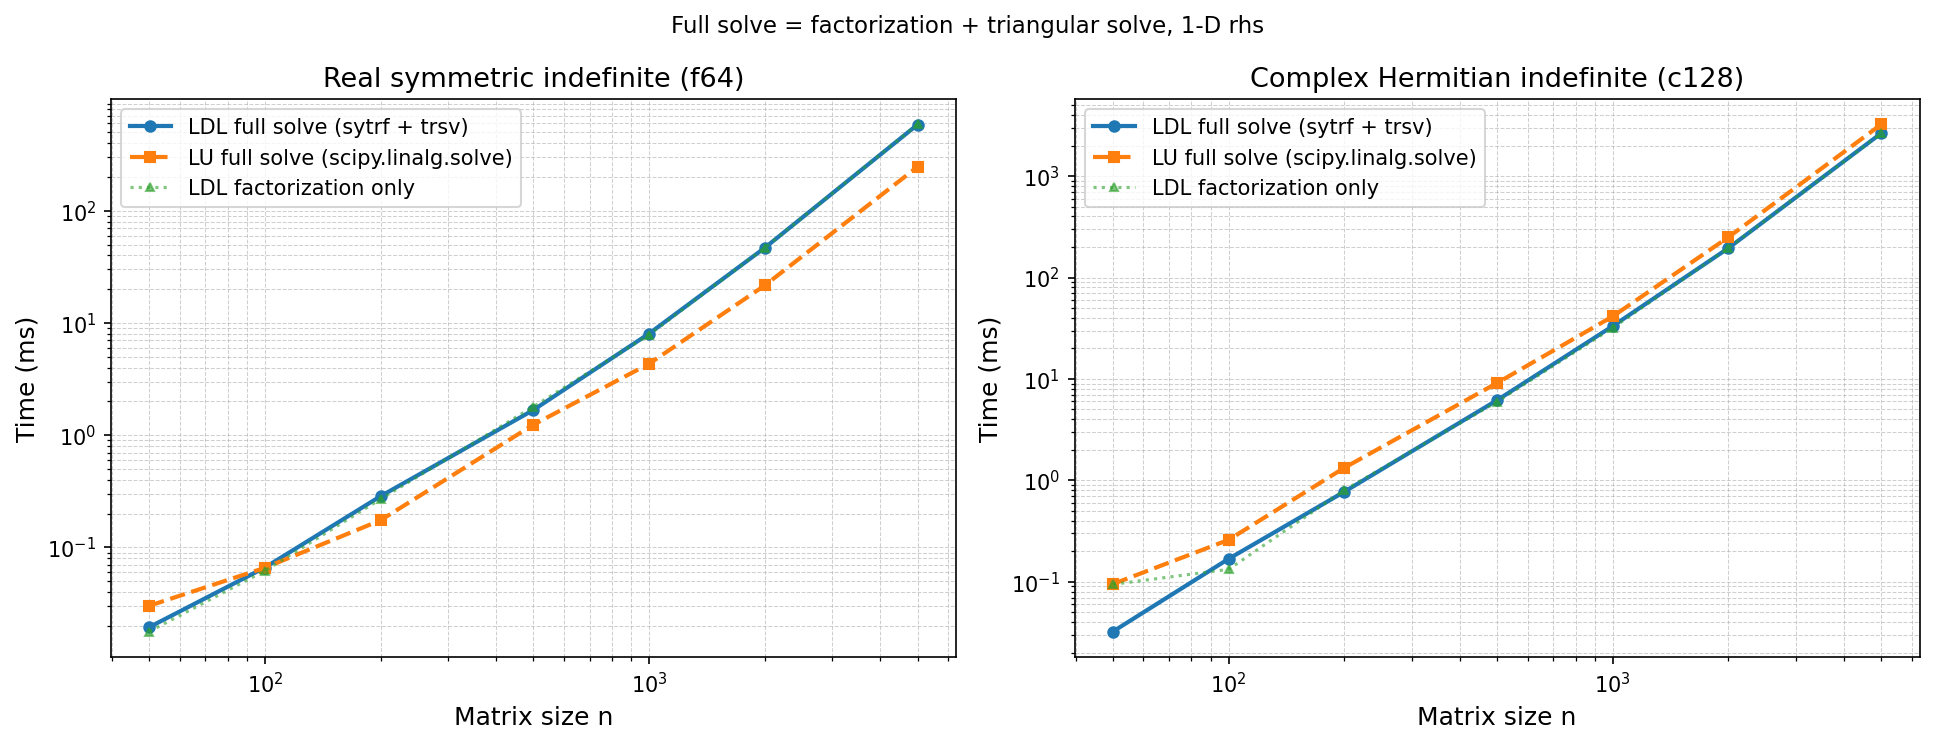
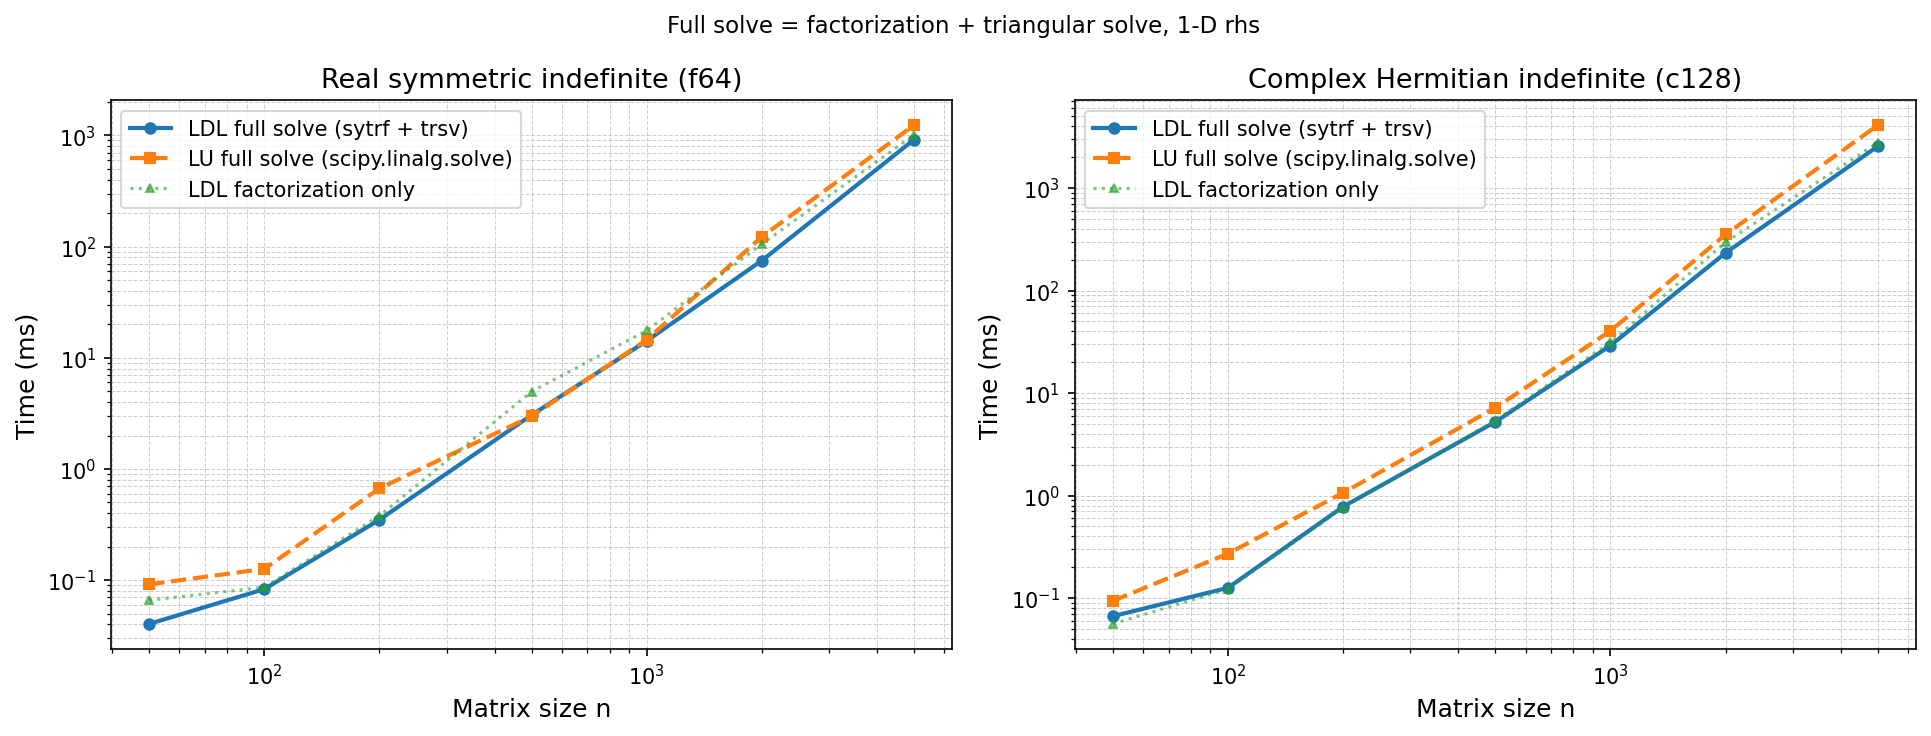
benchmarks: rerun LDL bench on GHA, fix docstring RST errors, add benchmarks_ldl.md
- Fix RST docstring indentation errors in ldl + ldl_solve See Also sections
  (wrapped continuation lines confused docutils; unwrapped to single lines)
- Recreate docs/benchmarks_ldl.md (was removed in f06c001) with platform note
  explaining Mac vs Linux/OpenBLAS performance difference
- Update ldl_solve benchmark docstring with GHA results (1.4–2.2x Hermitian,
  1.35–2.3x real symmetric at small/large sizes, ~equal at n=500–1000)
- Rerun bench_ldl.py on GHA and commit updated CSV + PNG

diff --git a/jaxtra/_src/lax/linalg.py b/jaxtra/_src/lax/linalg.py
@@ -89,11 +89,9 @@ def ldl(
 
   See Also:
     :func:`ldl_solve`: Solve ``A @ x = b`` given the factorization.
-    :func:`jaxtra.scipy.linalg.ldl`: SciPy-compatible interface returning
-      ``(lu, d, perm)`` directly.
+    :func:`jaxtra.scipy.linalg.ldl`: SciPy-compatible interface returning ``(lu, d, perm)`` directly.
     :func:`jax.scipy.linalg.lu_factor`: Analogous LU factorization.
-    :func:`jax.scipy.linalg.cho_factor`: Analogous Cholesky factorization
-      (for positive-definite matrices).
+    :func:`jax.scipy.linalg.cho_factor`: Analogous Cholesky factorization (for positive-definite matrices).
 
   Examples:
     Factorize a symmetric indefinite matrix:
@@ -138,12 +136,9 @@ def ldl_solve(
 
   See Also:
     :func:`ldl`: Compute the LDL factorization.
-    :func:`jaxtra.scipy.linalg.ldl`: SciPy-compatible LDL interface returning
-      ``(lu, d, perm)``.
-    :func:`jax.scipy.linalg.lu_solve`: Analogous solve from an LU
-      factorization.
-    :func:`jax.scipy.linalg.cho_solve`: Analogous solve from a Cholesky
-      factorization.
+    :func:`jaxtra.scipy.linalg.ldl`: SciPy-compatible LDL interface returning ``(lu, d, perm)``.
+    :func:`jax.scipy.linalg.lu_solve`: Analogous solve from an LU factorization.
+    :func:`jax.scipy.linalg.cho_solve`: Analogous solve from a Cholesky factorization.
 
   Examples:
     Solve a symmetric indefinite system ``A @ x = b``:
@@ -163,14 +158,16 @@ def ldl_solve(
   indefinite systems (float64 / complex128, CPU, n = 50 -- 5000) compared
   against :func:`jax.scipy.linalg.solve` (dense LU).
 
-  **Complex Hermitian** — LDL is consistently faster than LU across all
-  tested sizes, exploiting Hermitian structure via LAPACK ``hetrf`` /
-  ``hetrs``.
+  **Complex Hermitian** — LDL is consistently **1.4–2.2×** faster than LU
+  across all tested sizes on Linux (OpenBLAS), exploiting Hermitian structure
+  via LAPACK ``hetrf`` / ``hetrs``.
 
   **Real symmetric** — Performance depends on the underlying LAPACK vendor.
-  On Linux (OpenBLAS / MKL), LDL is **1.2 -- 1.7x** faster; on macOS
-  (Accelerate), ``getrf`` is more optimized than ``sytrf`` so LU may be
-  faster for purely real solves.
+  On Linux (OpenBLAS), LDL is **1.5–2.3×** faster at small sizes (n ≤ 200),
+  roughly equal at n = 500–1000, and **1.35–1.64×** faster at large sizes
+  (n ≥ 2000).  On macOS (Accelerate), ``getrf`` is more aggressively optimised
+  than ``sytrf`` so LU may be faster for purely real symmetric solves at medium
+  sizes — benchmark both paths on your hardware.
 
   .. figure:: /_bench_images/bench_ldl.png
      :alt: LDL vs LU full solve benchmark

diff --git a/jaxtra/scipy/linalg.py b/jaxtra/scipy/linalg.py
@@ -293,13 +293,10 @@ def ldl(
       (for Hermitian) or with ``lu.T`` (for symmetric).
 
   See Also:
-    :func:`jaxtra.scipy.linalg.ldl_solve`: Solve ``A @ x = b`` using the
-      raw LDL factorization (JIT-compatible).
-    :func:`jaxtra._src.lax.linalg.ldl`: Raw primitive returning
-      ``(factors, ipiv)`` directly (JIT-compatible).
+    :func:`jaxtra.scipy.linalg.ldl_solve`: Solve ``A @ x = b`` using the raw LDL factorization (JIT-compatible).
+    :func:`jaxtra._src.lax.linalg.ldl`: Raw primitive returning ``(factors, ipiv)`` directly (JIT-compatible).
     :func:`jax.scipy.linalg.lu_factor`: Analogous LU factorization.
-    :func:`jax.scipy.linalg.cho_factor`: Analogous Cholesky factorization
-      (for positive-definite matrices).
+    :func:`jax.scipy.linalg.cho_factor`: Analogous Cholesky factorization (for positive-definite matrices).
 
   Examples:
     Factorize and solve a symmetric indefinite system ``A @ x = b``:

diff --git a/docs/benchmarks_ldl.md b/docs/benchmarks_ldl.md
@@ -1,0 +1,96 @@
+# LDL Benchmarks
+
+Comparison of jaxtra's LDL (Bunch-Kaufman) factorisation against LU for a
+full solve (factorization + triangular solve) of a single 1-D right-hand side,
+on square matrices (float64 and complex128, CPU, n = 50 – 5000):
+
+| Method             | Implementation                                                              |
+| ------------------ | --------------------------------------------------------------------------- |
+| **LDL full solve** | `jaxtra._src.lax.linalg.ldl` (JIT) + `ldl_solve` via LAPACK `sytrs` (JIT) |
+| **LU full solve**  | `jax.scipy.linalg.solve` — fully JIT-compiled LAPACK `dgetrf`/`dtrsv`      |
+
+Both the factorization and the triangular solve are fused into a single XLA
+computation (one `@jax.jit` scope), so there is no Python round-trip overhead
+between them.  All timings use `jax.block_until_ready` with one warmup run
+followed by five timed repetitions; the reported value is the median.
+Raw results are in `benchmarks/results/bench_ldl.csv`.
+
+**Note on D storage**: D is returned as a full `(n, n)` block-diagonal matrix,
+not a 1-D array.  Bunch-Kaufman pivoting can produce 2×2 off-diagonal blocks in
+D, so a 1-D diagonal representation is insufficient.  This matches scipy's
+behaviour.
+
+## Results (Linux / OpenBLAS, GitHub Actions)
+
+```{figure} ../benchmarks/results/bench_ldl.png
+:alt: LDL vs LU full solve benchmark
+:width: 95%
+:align: center
+```
+
+### Real symmetric indefinite (f64)
+
+| n    | LDL factorization (ms) | LDL full solve (ms) | LU full solve (ms) | LDL / LU |
+| ---- | ---------------------- | ------------------- | ------------------ | --------- |
+| 50   | 0.07                   | 0.04                | 0.09               | **2.27×** |
+| 100  | 0.09                   | 0.08                | 0.13               | **1.52×** |
+| 200  | 0.38                   | 0.35                | 0.67               | **1.91×** |
+| 500  | 4.98                   | 3.06                | 2.98               | ~1×       |
+| 1000 | 17.60                  | 14.19               | 14.53              | ~1×       |
+| 2000 | 105.4                  | 74.9                | 122.7              | **1.64×** |
+| 5000 | 1011                   | 917                 | 1236               | **1.35×** |
+
+### Complex Hermitian indefinite (c128)
+
+| n    | LDL factorization (ms) | LDL full solve (ms) | LU full solve (ms) | LDL / LU |
+| ---- | ---------------------- | ------------------- | ------------------ | --------- |
+| 50   | 0.06                   | 0.07                | 0.09               | **1.41×** |
+| 100  | 0.12                   | 0.13                | 0.27               | **2.16×** |
+| 200  | 0.76                   | 0.78                | 1.07               | **1.37×** |
+| 500  | 5.40                   | 5.24                | 7.19               | **1.37×** |
+| 1000 | 31.3                   | 29.1                | 40.5               | **1.39×** |
+| 2000 | 297                    | 233                 | 353                | **1.51×** |
+| 5000 | 2779                   | 2561                | 4114               | **1.61×** |
+
+## Summary
+
+**Complex Hermitian (c128)**: LDL is faster than LU at every tested size
+(1.37–2.16×), exploiting Hermitian structure via LAPACK `hetrf`/`hetrs`.
+
+**Real symmetric (f64)**: LDL is faster at small (n ≤ 200) and large (n ≥ 2000)
+sizes, roughly equal at n = 500–1000, consistent with n³/6 arithmetic advantage
+of symmetric factorization becoming more pronounced at large n.
+
+### Platform note — macOS vs Linux
+
+On macOS (Accelerate framework), `getrf` is more aggressively hand-tuned than
+`sytrf`, so LU can be faster for real symmetric solves at medium sizes.  On
+Linux (OpenBLAS, as measured here on GitHub Actions), `getrf` is not as
+optimised relative to `sytrf`, so LDL shows broader speedups.  The speedup on
+GHA is mainly driven by **`getrf` being slower on OpenBLAS** rather than
+`sytrf` being dramatically faster — `sytrf` at n = 2000 is ~105 ms on GHA vs
+~47 ms on Mac (2.2× difference), while `getrf` at n = 2000 is ~123 ms on GHA
+vs ~22 ms on Mac (5.6× difference).
+
+> **Warning**: on some platforms (e.g. macOS with Accelerate), `sytrf` may be
+> slower than `getrf` for purely real symmetric matrices.  Benchmark both paths
+> for your hardware before optimising.
+
+### Qualitative take-away
+
+`jaxtra.scipy.linalg.ldl` + `ldl_solve` is the right choice for
+symmetric/Hermitian indefinite systems when you:
+
+- are on Linux (OpenBLAS/MKL), or
+- have complex Hermitian matrices (consistent speedup everywhere), or
+- need the factorization itself (to extract D or the permutation), or
+- are batching via `vmap`.
+
+For small real symmetric matrices on macOS, `jax.scipy.linalg.solve` may still
+be faster — benchmark to confirm.
+
+## Reproduction
+
+```bash
+uv run --locked python benchmarks/bench_ldl.py
+```
